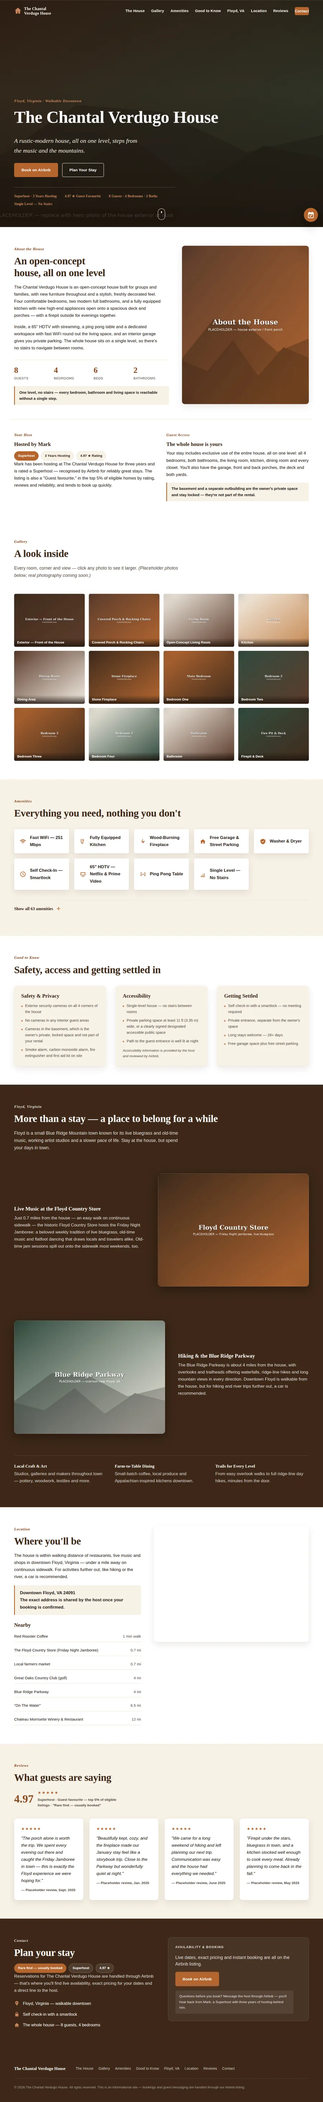
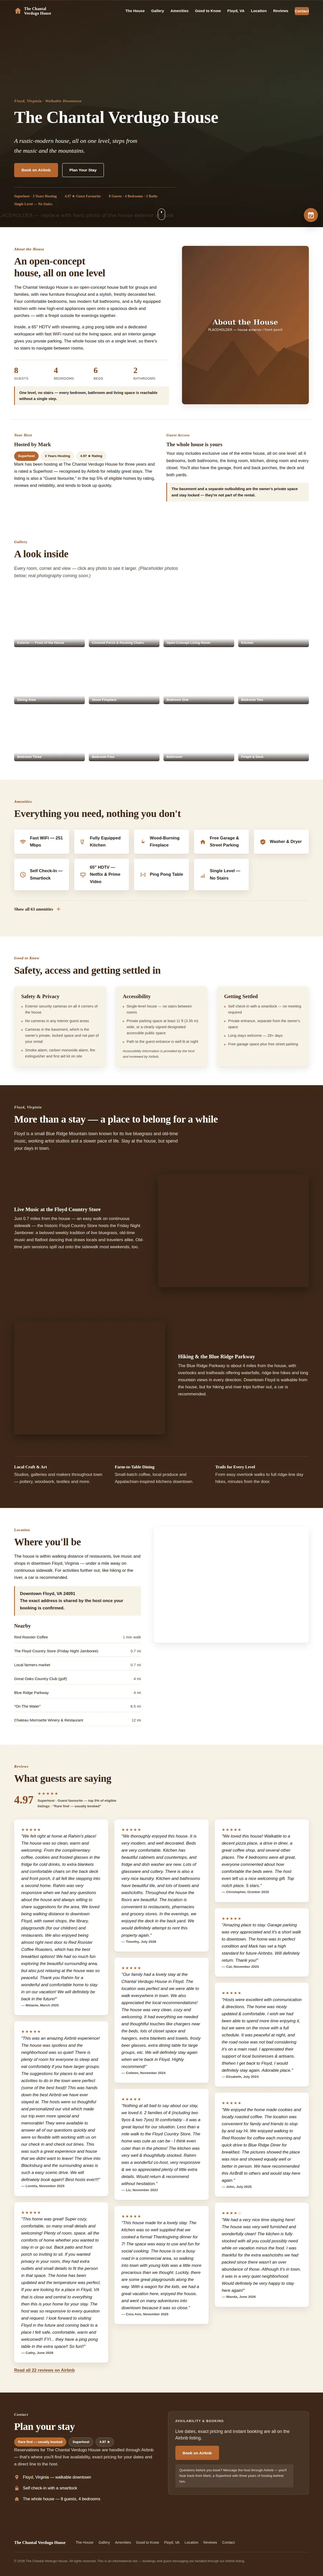
feat(chantal): replace placeholder reviews with real guest reviews
The four quotes in #reviews were invented, flagged in the markup as "placeholder
quotes, not real guest reviews — replace with real ones from the listing before
removing noindex". The owner supplied all 22 reviews from the Airbnb listing.

Publish 12 of them, chosen for concrete detail — bedrooms, kitchen, distances,
named amenities — over generic praise. Dropped the five that are a sentence or
two of unspecific compliment. Coverage runs Nov 2023 to Jul 2026 with no long
gaps.

Wanda's 4-star review is included deliberately: a wall of flawless 5s reads as
curated, and her one complaint (not many washcloths) is minor and specific.
Its card shows four filled stars and one empty, with a matching aria-label.

Quotes are verbatim — these are real people's words, so they are reproduced
character for character, only HTML-escaped. A check script compares each
rendered quote against the source text.

Also adds a link to the listing under the grid, since 12 of 22 is a selection
and the page should say so.

.reviews-grid moves from grid to CSS columns. Real reviews run from two lines
to two paragraphs, and a grid row stretches every card to the tallest one in it,
which left large gaps. Columns let each card keep its own height. .review-card
drops display:flex, which would have created a formatting context and defeated
break-inside:avoid; margins take over the spacing.

No aggregateRating in the JSON-LD yet: the page shows Airbnb's 4.97, while
[…]

diff --git a/projects/chantal_verdugo_house/index.html b/projects/chantal_verdugo_house/index.html
@@ -98,11 +98,15 @@
         ]
       }
     </script>
-    <!-- REPLACE_WITH_REVIEW_COUNT: once the real Airbnb review count is known AND the
-         placeholder reviews in #reviews are replaced with real ones, add an
-         "aggregateRating" here: { "@type": "AggregateRating", "ratingValue": 4.97,
-         "reviewCount": N, "bestRating": 5 }. Not added yet because a rating without a
-         review count isn't a fair representation, and the reviews below aren't real. -->
+    <!-- REPLACE_WITH_RATING_SOURCE: #reviews now carries real guest reviews (12 of the
+         listing's 22), so an "aggregateRating" could go here — except the two numbers
+         we have disagree. The page displays 4.97, Airbnb's own figure, which it derives
+         from the category subratings; averaging the 22 overall star ratings instead
+         gives 4.95 (21 x 5 + 1 x 4 = 109/22). Both can be true at once, so neither is
+         safe to assert as structured data until the owner confirms which one the
+         listing actually reports, and whether 22 is the full count. Once confirmed:
+         { "@type": "AggregateRating", "ratingValue": X, "reviewCount": 22,
+         "bestRating": 5 }. -->
   </head>
 
   <body>
@@ -798,43 +802,183 @@
             </div>
           </div>
 
-          <!-- The four reviews below are placeholder quotes, not real guest reviews —
-               replace with real ones from the listing before removing noindex. -->
           <ul class="reviews-grid">
             <li class="review-card reveal">
               <div class="review-card__stars" aria-label="5 out of 5 stars">★★★★★</div>
               <p class="review-card__quote">
-                "The porch alone is worth the trip. We spent every evening out there and
-                caught the Friday Jamboree in town — this is exactly the Floyd experience
-                we were hoping for."
+                "We felt right at home at Rahim's place! The house was so clean, warm
+                and welcoming. From the complimentary coffee, cookies and frosted
+                glasses in the fridge for cold drinks, to extra blankets and comfortable
+                chairs on the back deck and front porch, it all felt like stepping into
+                a second home. Rahim was very responsive when we had any questions about
+                the house and always willing to share suggestions for the area. We loved
+                being walking distance to downtown Floyd, with sweet shops, the library,
+                playgrounds (for our children) and restaurants. We also enjoyed being
+                almost right next door to Red Rooster Coffee Roasters, which has the
+                best breakfast options! We had so much fun exploring the beautiful
+                surrounding area, but also just relaxing at the house was so peaceful.
+                Thank you Rahim for a wonderful and comfortable home to stay in on our
+                vacation! We will definitely be back in the future!"
               </p>
-              <p class="review-card__author">— Placeholder review, Sept. 2025</p>
+              <p class="review-card__author">— Melanie, March 2025</p>
             </li>
             <li class="review-card reveal">
               <div class="review-card__stars" aria-label="5 out of 5 stars">★★★★★</div>
               <p class="review-card__quote">
-                "Beautifully kept, cozy, and the fireplace made our January stay feel like a
-                storybook trip. Close to the Parkway but wonderfully quiet at night."
+                "This was an amazing Airbnb experience! The house was spotless and the
+                neighborhood was so quiet! There is plenty of room for everyone to sleep
+                and eat comfortably if you have larger groups. The suggestions for
+                places to eat and activities to do in the town were perfect (some of the
+                best food)! This was hands down the best Airbnb we have ever stayed at.
+                The hosts were so thoughtful and personalized our visit which made our
+                trip even more special and memorable! They were available to answer all
+                of our questions quickly and were so flexible with working with us on
+                our check in and check out times. This was such a great experience and
+                house that we didnt want to leave! The drive into Blacksburg and the
+                surrounding areas is such a easy scenic drive. We will definately book
+                again!! Best hosts ever!!!"
               </p>
-              <p class="review-card__author">— Placeholder review, Jan. 2025</p>
+              <p class="review-card__author">— Loretta, November 2025</p>
             </li>
             <li class="review-card reveal">
               <div class="review-card__stars" aria-label="5 out of 5 stars">★★★★★</div>
               <p class="review-card__quote">
-                "We came for a long weekend of hiking and left planning our next trip.
-                Communication was easy and the house had everything we needed."
+                "This home was great! Super cozy, comfortable, so many small details and
+                welcoming! Plenty of room, space, all the comforts of home whether you
+                wanted to stay in or go out. Back patio and front porch so inviting to
+                sit. If you wanted privacy in your room, they had extra outlets and
+                small details to fit the person in that space. The home has been updated
+                and the temperature was perfect. If you are looking for a place in
+                Floyd, VA that is close and central to everything then this is your home
+                for your stay. The host was so responsive to every question and request.
+                I look forward to visiting Floyd in the future and coming back to a
+                place I felt safe, comfortable, warm and welcomed!! FYI... they have a
+                ping pong table in the extra space!! So fun!!"
               </p>
-              <p class="review-card__author">— Placeholder review, June 2025</p>
+              <p class="review-card__author">— Cathy, June 2026</p>
             </li>
             <li class="review-card reveal">
               <div class="review-card__stars" aria-label="5 out of 5 stars">★★★★★</div>
               <p class="review-card__quote">
-                "Firepit under the stars, bluegrass in town, and a kitchen stocked well
-                enough to cook every meal. Already planning to come back in the fall."
+                "We thoroughly enjoyed this house. It is very modern, and well
+                decorated. Beds are very comfortable. Kitchen has beautiful cabinets and
+                countertops, and fridge and dish washer are new. Lots of glassware and
+                cutlery. There is also a very nice laundry. Kitchen and bathrooms have
+                beautiful tile, and lots of towels and washcloths. Throughout the house
+                the floors are beautiful. The location is convenient to restaurants,
+                pharmacies and grocery stores. In the evenings, we enjoyed the deck in
+                the back yard. We would definitely attempt to rent this property again."
               </p>
-              <p class="review-card__author">— Placeholder review, May 2025</p>
+              <p class="review-card__author">— Timothy, July 2026</p>
+            </li>
+            <li class="review-card reveal">
+              <div class="review-card__stars" aria-label="5 out of 5 stars">★★★★★</div>
+              <p class="review-card__quote">
+                "Our family had a lovely stay at the Chantal Verdugo House in Floyd. The
+                location was perfect and we were able to walk everywhere in town. We
+                also appreciated the local recommendations! The house was very clean,
+                cozy and welcoming. It had everything we needed and thoughtful touches
+                like chargers near the beds, lots of closet space and hangers, extra
+                blankets and towels, frosty beer glasses, extra dining table for large
+                groups, etc. We will definitely stay again when we're back in Floyd.
+                Highly recommend!"
+              </p>
+              <p class="review-card__author">— Colleen, November 2024</p>
+            </li>
+            <li class="review-card reveal">
+              <div class="review-card__stars" aria-label="5 out of 5 stars">★★★★★</div>
+              <p class="review-card__quote">
+                "Nothing at all bad to say about our stay, we loved it. 2 families of 4
+                (including two 9yos &amp; two 7yos) fit comfortably - it was a great
+                layout for our situation. Less than a mile walk to the Floyd Country
+                Store. The home was cute as can be - I think even cuter than in the
+                photos! The kitchen was very well &amp; thoughtfully stocked. Rahim was
+                a wonderful co-host, very responsive &amp; we so appreciated plenty of
+                little extra details. Would return &amp; recommend without hesitation."
+              </p>
+              <p class="review-card__author">— Liz, November 2023</p>
+            </li>
+            <li class="review-card reveal">
+              <div class="review-card__stars" aria-label="5 out of 5 stars">★★★★★</div>
+              <p class="review-card__quote">
+                "This house made for a lovely stay. The kitchen was so well supplied
+                that we cooked a formal Thanksgiving dinner for 7! The space was easy to
+                use and fun for social cooking. The house is on a busy road in a
+                commercial area, so walking into town with young kids was a little more
+                precarious than we thought. Luckily, there are some great playgrounds
+                along the way. With a wagon for the kids, we had a great vacation here,
+                enjoyed the house, and went on many adventures into downtown because it
+                was so close."
+              </p>
+              <p class="review-card__author">— Cora Ann, November 2025</p>
+            </li>
+            <li class="review-card reveal">
+              <div class="review-card__stars" aria-label="5 out of 5 stars">★★★★★</div>
+              <p class="review-card__quote">
+                "We loved this house! Walkable to a decent pizza place, a drive in
+                diner, a great coffee shop, and several other places. The 4 bedrooms
+                were all great, everyone commented about how comfortable the beds were.
+                The host even left us a nice welcoming gift. Top notch place. 5 stars."
+              </p>
+              <p class="review-card__author">— Christopher, October 2025</p>
+            </li>
+            <li class="review-card reveal">
+              <div class="review-card__stars" aria-label="5 out of 5 stars">★★★★★</div>
+              <p class="review-card__quote">
+                "Amazing place to stay. Garage parking was very appreciated and it's a
+                short walk to downtown. The home was in perfect condition and Mark has
+                set a high standard for future Airbnbs. Will definitely return. Thank
+                you!"
+              </p>
+              <p class="review-card__author">— Cat, November 2025</p>
+            </li>
+            <li class="review-card reveal">
+              <div class="review-card__stars" aria-label="5 out of 5 stars">★★★★★</div>
+              <p class="review-card__quote">
+                "Hosts were excellent with communication &amp; directions. The home was
+                nicely updated &amp; comfortable. I wish we had been able to spend more
+                time enjoying it, but we were on the move with a full schedule. It was
+                peaceful at night, and the road noise was not bad considering it's on a
+                main road. I appreciated their support of local businesses &amp;
+                artisans. If/when I get back to Floyd, I would definitely stay again.
+                Adorable place."
+              </p>
+              <p class="review-card__author">— Elizabeth, July 2024</p>
+            </li>
+            <li class="review-card reveal">
+              <div class="review-card__stars" aria-label="5 out of 5 stars">★★★★★</div>
+              <p class="review-card__quote">
+                "We enjoyed the home made cookies and locally roasted coffee. The
+                location was convenient for family and friends to stop by and say Hi. We
+                enjoyed walking to Red Rooster for coffee each morning and quick drive
+                to Blue Ridge Diner for breakfast. The pictures showed the place was
+                nice and showed equally well or better in person. We have recommended
+                this AirBnB to others and would stay here again."
+              </p>
+              <p class="review-card__author">— John, July 2025</p>
+            </li>
+            <li class="review-card reveal">
+              <div class="review-card__stars" aria-label="4 out of 5 stars">★★★★☆</div>
+              <p class="review-card__quote">
+                "We had a very nice time staying here! The house was very well furnished
+                and wonderfully clean! The kitchen is fully stocked with all you could
+                possibly need while on vacation minus the food. I was thankful for the
+                extra washcloths we had packed since there wasn't an over abundance of
+                those. Although it's in town, it was in a very quiet neighborhood. Would
+                definitely be very happy to stay here again!"
+              </p>
+              <p class="review-card__author">— Wanda, June 2026</p>
             </li>
           </ul>
+
+          <p class="reviews__all">
+            <a
+              href="https://www.airbnb.com/rooms/963874806976281129"
+              target="_blank"
+              rel="noopener">
+              Read all 22 reviews on Airbnb <span class="sr-only">(opens in a new tab)</span>
+            </a>
+          </p>
         </div>
       </section>
 

diff --git a/projects/chantal_verdugo_house/css/styles.css b/projects/chantal_verdugo_house/css/styles.css
@@ -1167,23 +1167,31 @@ address {
 
 /* ============ REVIEWS ============ */
 
+/* Columns, not grid: real reviews run from two lines to two paragraphs, and a
+   grid row stretches every card to the tallest one in it. Columns let each card
+   keep its own height and the next one start right below. */
 .reviews-grid {
   list-style: none;
   padding: 0;
   margin: 2.5rem 0 0;
-  display: grid;
-  grid-template-columns: repeat(auto-fit, minmax(260px, 1fr));
-  gap: 1.5rem;
+  columns: 3 260px;
+  column-gap: 1.5rem;
 }
 
+/* No flex here — it would make the card a new formatting context and stop
+   break-inside from holding it together across a column boundary. The children
+   are blocks already, so margins do the spacing flex used to. */
 .review-card {
   padding: 1.75rem;
   background: var(--white);
   border-radius: var(--radius-lg);
   box-shadow: var(--shadow-card);
-  display: flex;
-  flex-direction: column;
-  gap: 0.75rem;
+  break-inside: avoid;
+  margin-bottom: 1.5rem;
+}
+
+.review-card > * + * {
+  margin-top: 0.75rem;
 }
 
 .review-card__stars {
@@ -1233,6 +1241,23 @@ address {
   font-weight: 600;
   color: var(--ink-soft);
   max-width: 48ch;
+}
+
+/* The grid above shows a selection, so say where the rest are. */
+.reviews__all {
+  margin: 1rem 0 0;
+  font-weight: 600;
+}
+
+.reviews__all a {
+  color: var(--copper-deep);
+  text-decoration: underline;
+  text-underline-offset: 0.2em;
+}
+
+.reviews__all a:hover,
+.reviews__all a:focus-visible {
+  color: var(--wood-deep);
 }
 
 /* ============ CONTACT ============ */

diff --git a/index.html b/index.html
@@ -208,7 +208,7 @@
                     alt=""
                     loading="lazy"
                     width="900"
-                    height="5859" />
+                    height="7177" />
                 </picture>
               </span>
             </a>
